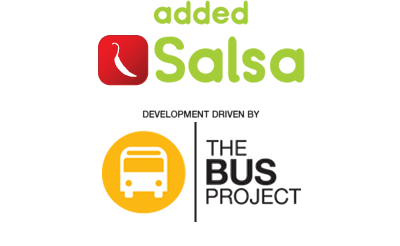
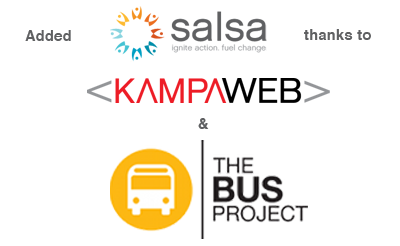
giving credit to kampaweb

Changed region(s): [[0.21, 0.0, 0.84, 0.9675], [0.75, 0.1138, 0.93, 0.1707], [0.06, 0.1138, 0.18, 0.1707]]

diff --git a/admin/admin_menu.php b/admin/admin_menu.php
@@ -214,30 +214,18 @@ function salsapress_salsa_setup() {
 		<p><?php _e('Want your Salsa events in a calendar? We might be able to help. <a href="mailto:srduncombe@gmail.com">Contact Scott</a> about adding a salsa-powered-calendar.','salsapress') ?></p>
 		<h3><a target="_blank" href="http://busproject.org/cal/"><?php _e('See it in action here','salsapress') ?></a></h3>
 
-		<h2>About SalsaPress / The Bus Federation</h2>
-		<p>SalsaPress is provided - for free - by the <a href="http://busfederation.com/">Bus Federation</a> and built by <a href="http://twitter.com/mojowen">Scott</a>. It is <a href="https://github.com/BusProject/SalsaPress">totally open source</a>.</p>
-		<p>We get young people involved in Democracy through field organizing and leadership development across the country<br />- and are increasingly building cool shit (we also built <a href="http://theballot.org">TheBallot.org</a> along with the League of Young Voters).</p>
-		<h3>Want to keep up on SalsaPress? Sign up for news</h3>
-		<form name="data" action="http://salsa.wiredforchange.com/save" method="POST" target="_blank" style="width: 300px; text-align: right">
-			<input type="hidden" name="chapter_KEY" value="9262">
-			<input type="hidden" name="redirect" value="https://github.com/BusProject/SalsaPress">
-			<input type="hidden" name="table" value="supporter">
-			<input type="hidden" name="key" value="0">
-			<label for="f1">First Name</label>
-			<input title="First Name" type="text" id="f1" name="First_Name" class="blockInput salsa_first_name" value="" size="25"><br />
-			<label for="f2">Last Name</label>
-			<input title="Last Name" type="text" id="f2" name="Last_Name" class="blockInput salsa_last_name" value="" size="25"><br />
-			<label for="f3">Email</label>
-			<input title="Email" type="text" id="f3" name="Email" class="blockInput salsa_email" value="" size="25"><br />
-			<input type="hidden" name="required" value="Email,">
-			<input type="hidden" name="organization_KEY" value="6121">
-			<input type="hidden" name="Receive_Email" value="3">
-			<input type="hidden" name="email_trigger_KEYS" value="13012">
-			<input type="hidden" name="link" value="groups">
-			<input type="hidden" name="linkKey" value="63716">
-			<input type="hidden" name="tag" id="tag" value="signup:page6502">
-			<input type="submit" value="Sign Up">
-		</form>
+		<h2>About SalsaPress</h2>
+		<p>Follow or contribute to the development of SalsaPress on <a href="https://github.com/BusProject/SalsaPress">Github</a>. It's mostly built and maintained by <a href="http://scottduncombe.com">Scott</a>.</p>
+
+		<h3>The Bus Federation</h3>
+		<p>Initial funding for the development of SalsaPress was provided by the <a href="http://busfederation.com/">Bus Federation</a>.</p>
+
+		<h3>Kampaweb</h3>
+		<p>Additional development has been funded by <a href="http://http://www.kampaweb.ch/">Kampaweb</a>.</p>
+
+		<h2>Translations</h2>
+		<p>SalsaPress now supports translations! Find the <code>.pot</code> file in the <code>lang</code> subfolder. Send <a href="mailto:srduncombe@gmail.com">me</a> your translated <code>.po</code> and <code>.mo</code> files - or submit a pull request on github - and I'll add them to the project.</p>
+
 	</div>
 
 	<?php
